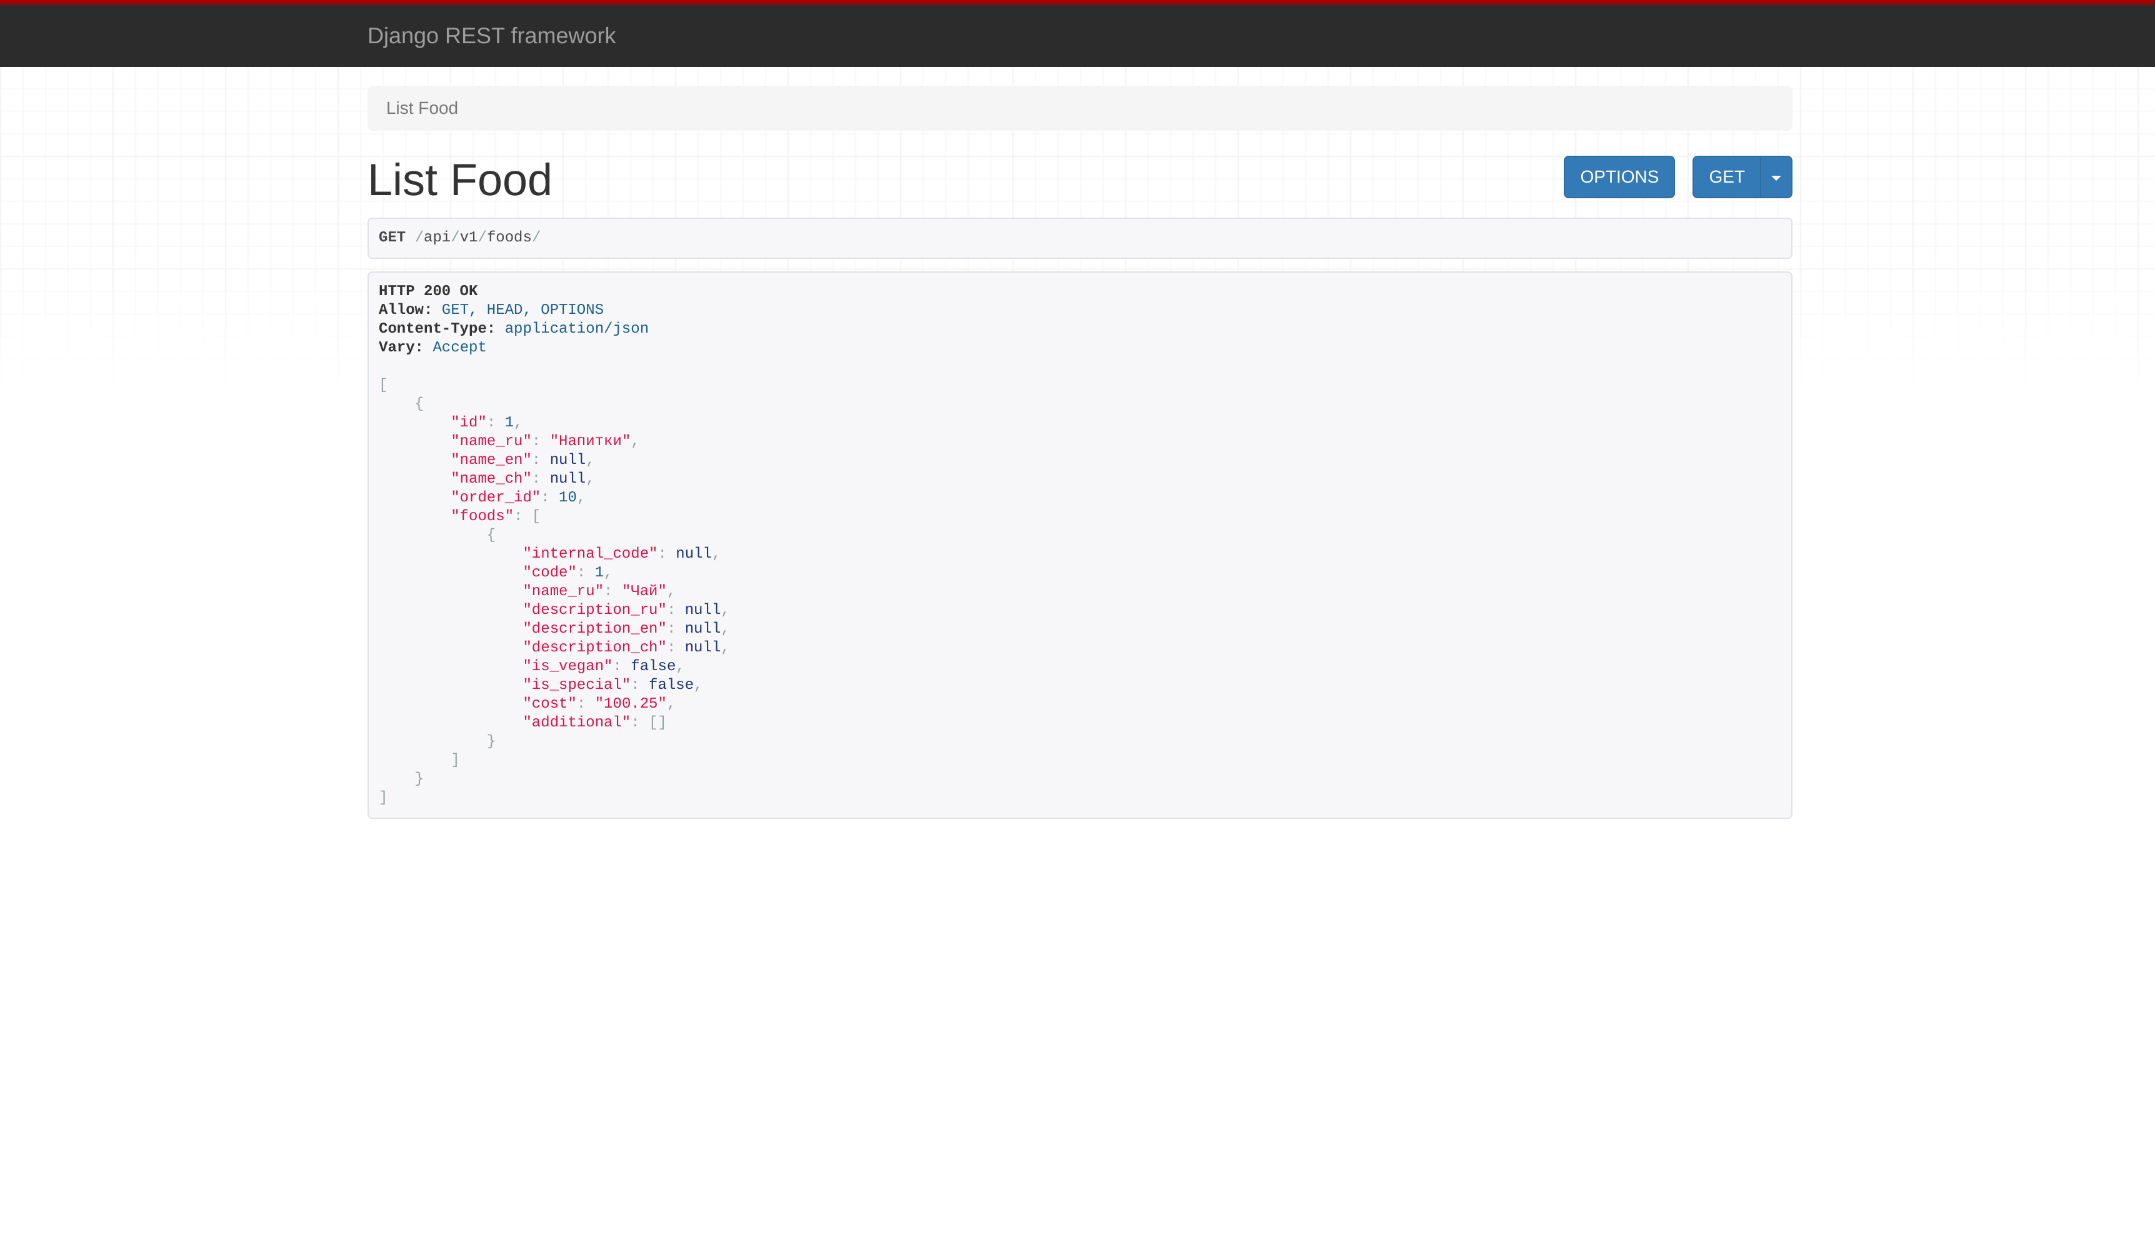
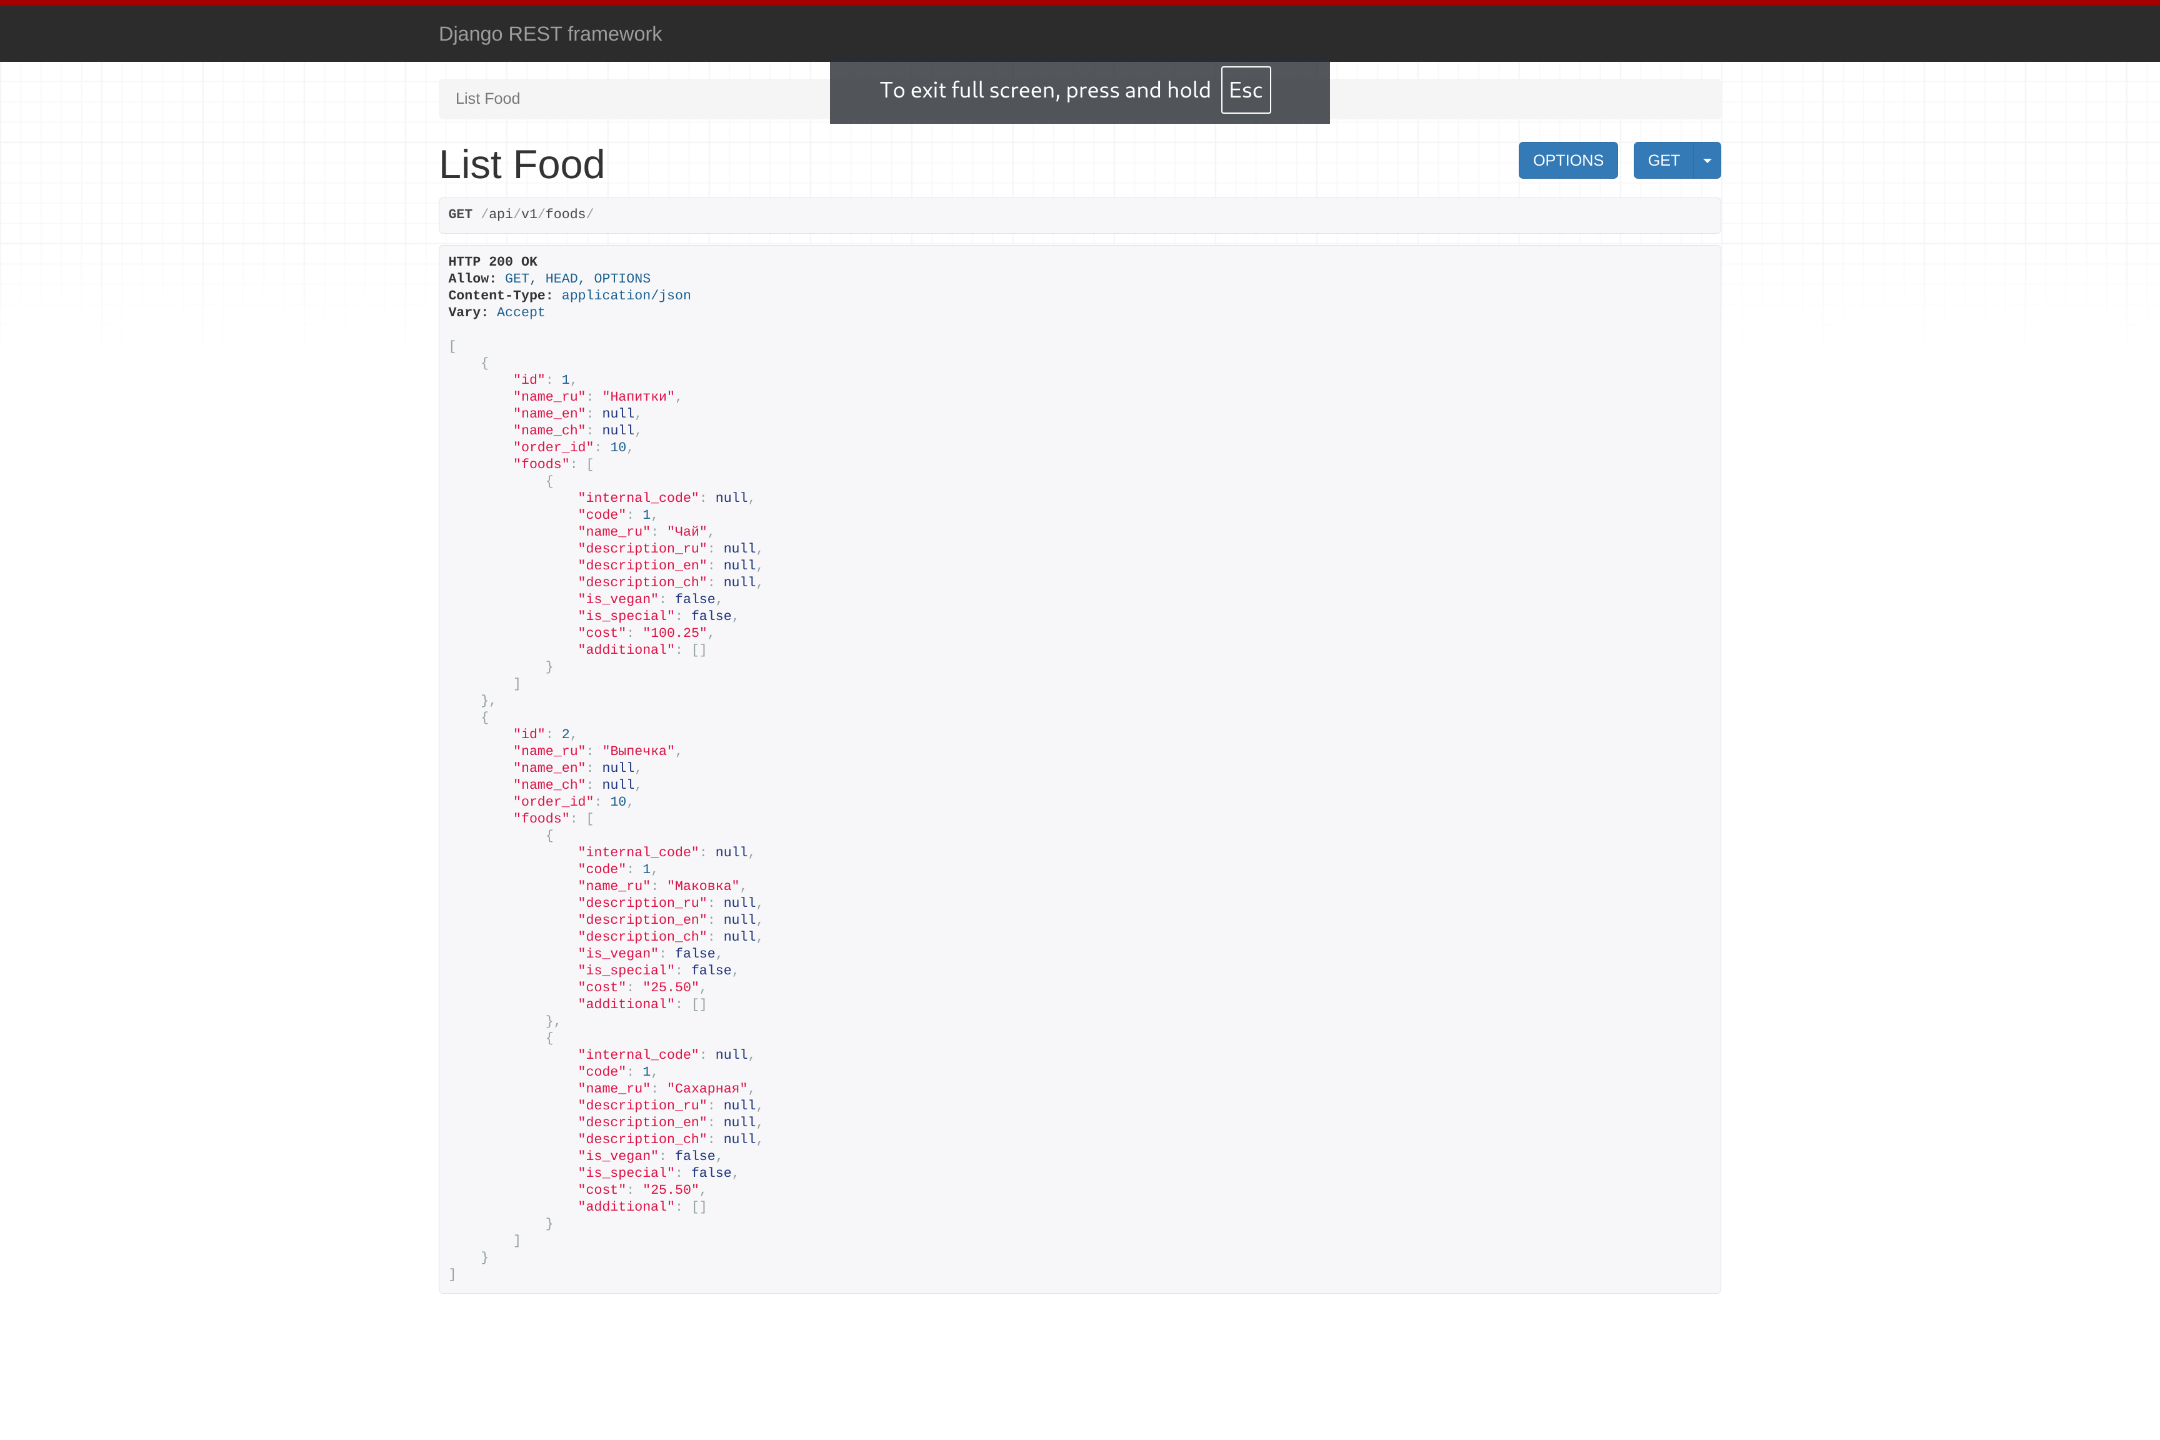
fix Food items fetch, replace demo image

diff --git a/utf/api/views.py b/utf/api/views.py
@@ -1,13 +1,11 @@
-from rest_framework.views import APIView
-from rest_framework.response import Response
-from .models import Food, FoodCategory, FoodListSerializer, FoodSerializer
+from .models import Food, FoodCategory, FoodListSerializer
 from rest_framework import generics
+from django.db.models import Prefetch
 
 class ListFood(generics.ListAPIView):
     serializer_class = FoodListSerializer
 
     def get_queryset(self):
-        queryset = FoodCategory.objects.prefetch_related('food').filter(food__is_publish=True).distinct()
-
+        published_foods = Food.objects.filter(is_publish=True)
+        queryset = FoodCategory.objects.prefetch_related(Prefetch('food', queryset=published_foods)).distinct().order_by('id', 'food__code')
         return queryset
-
